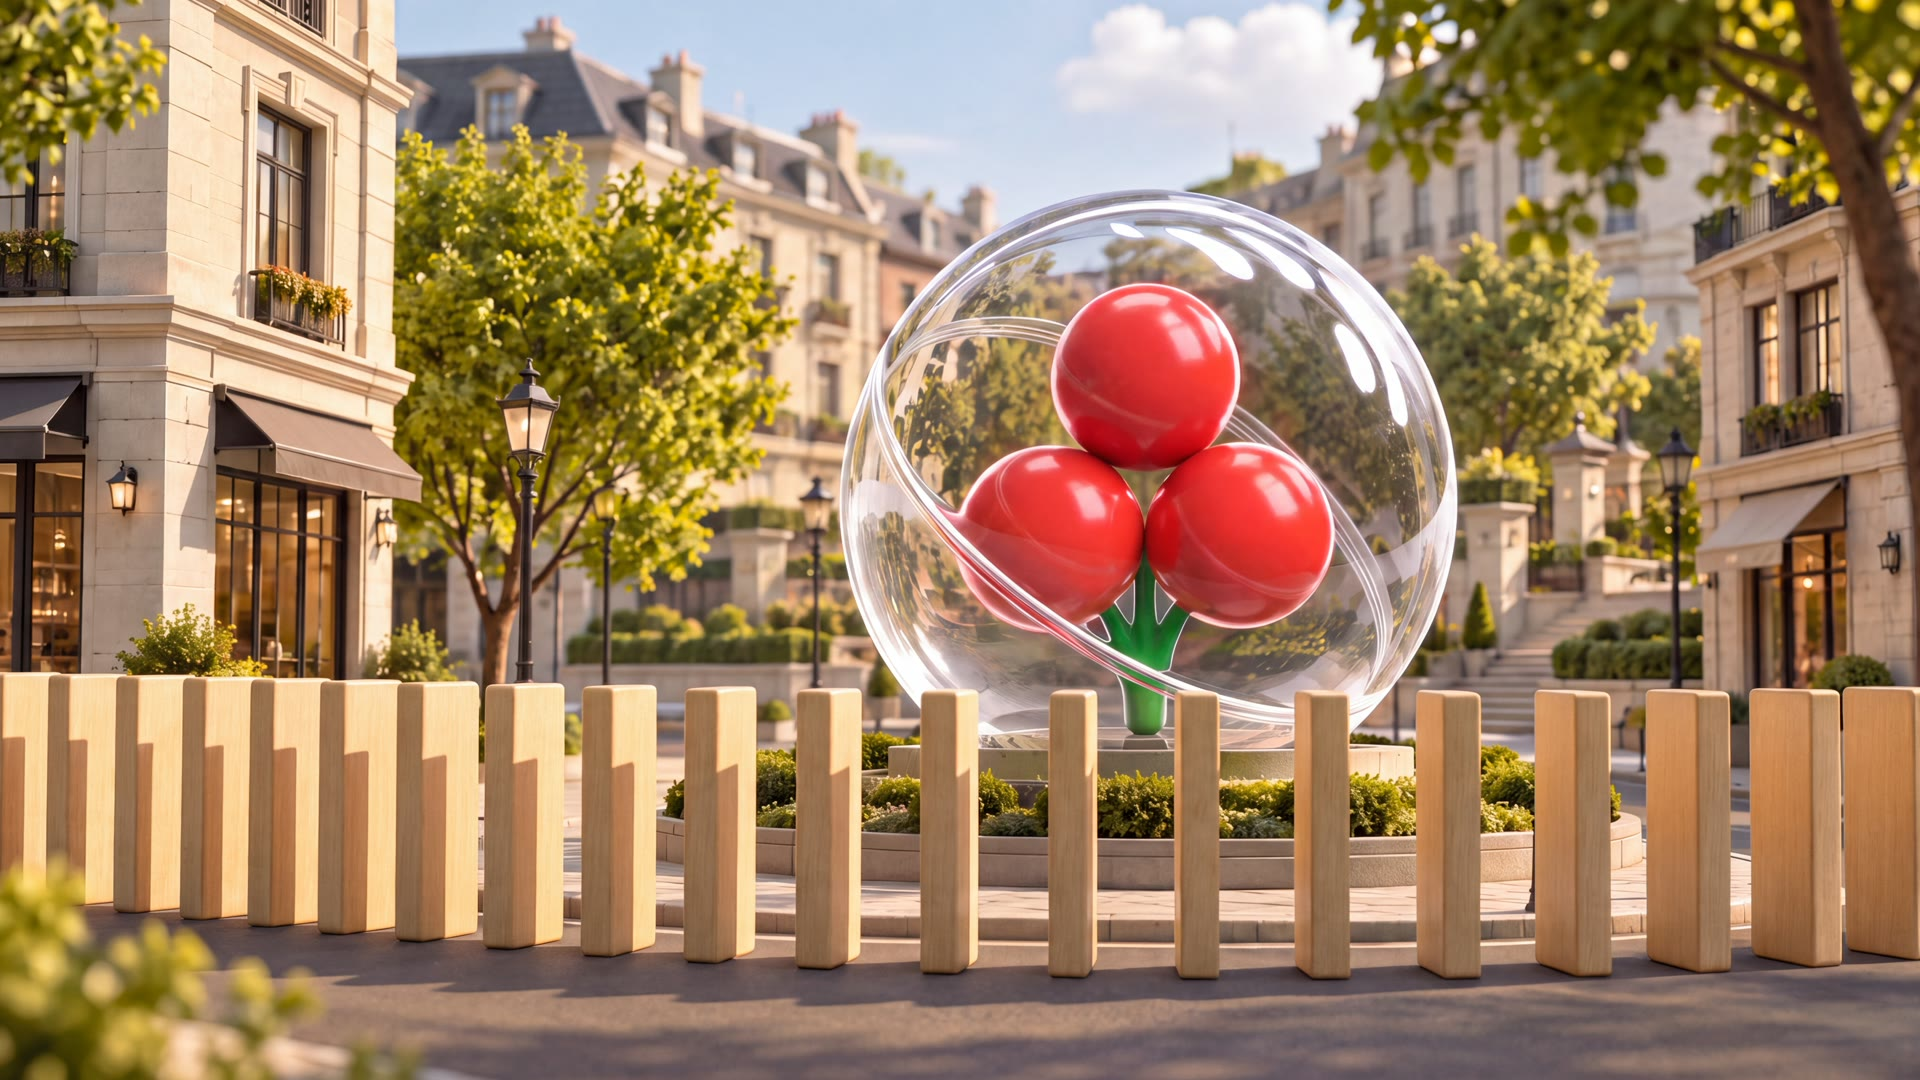
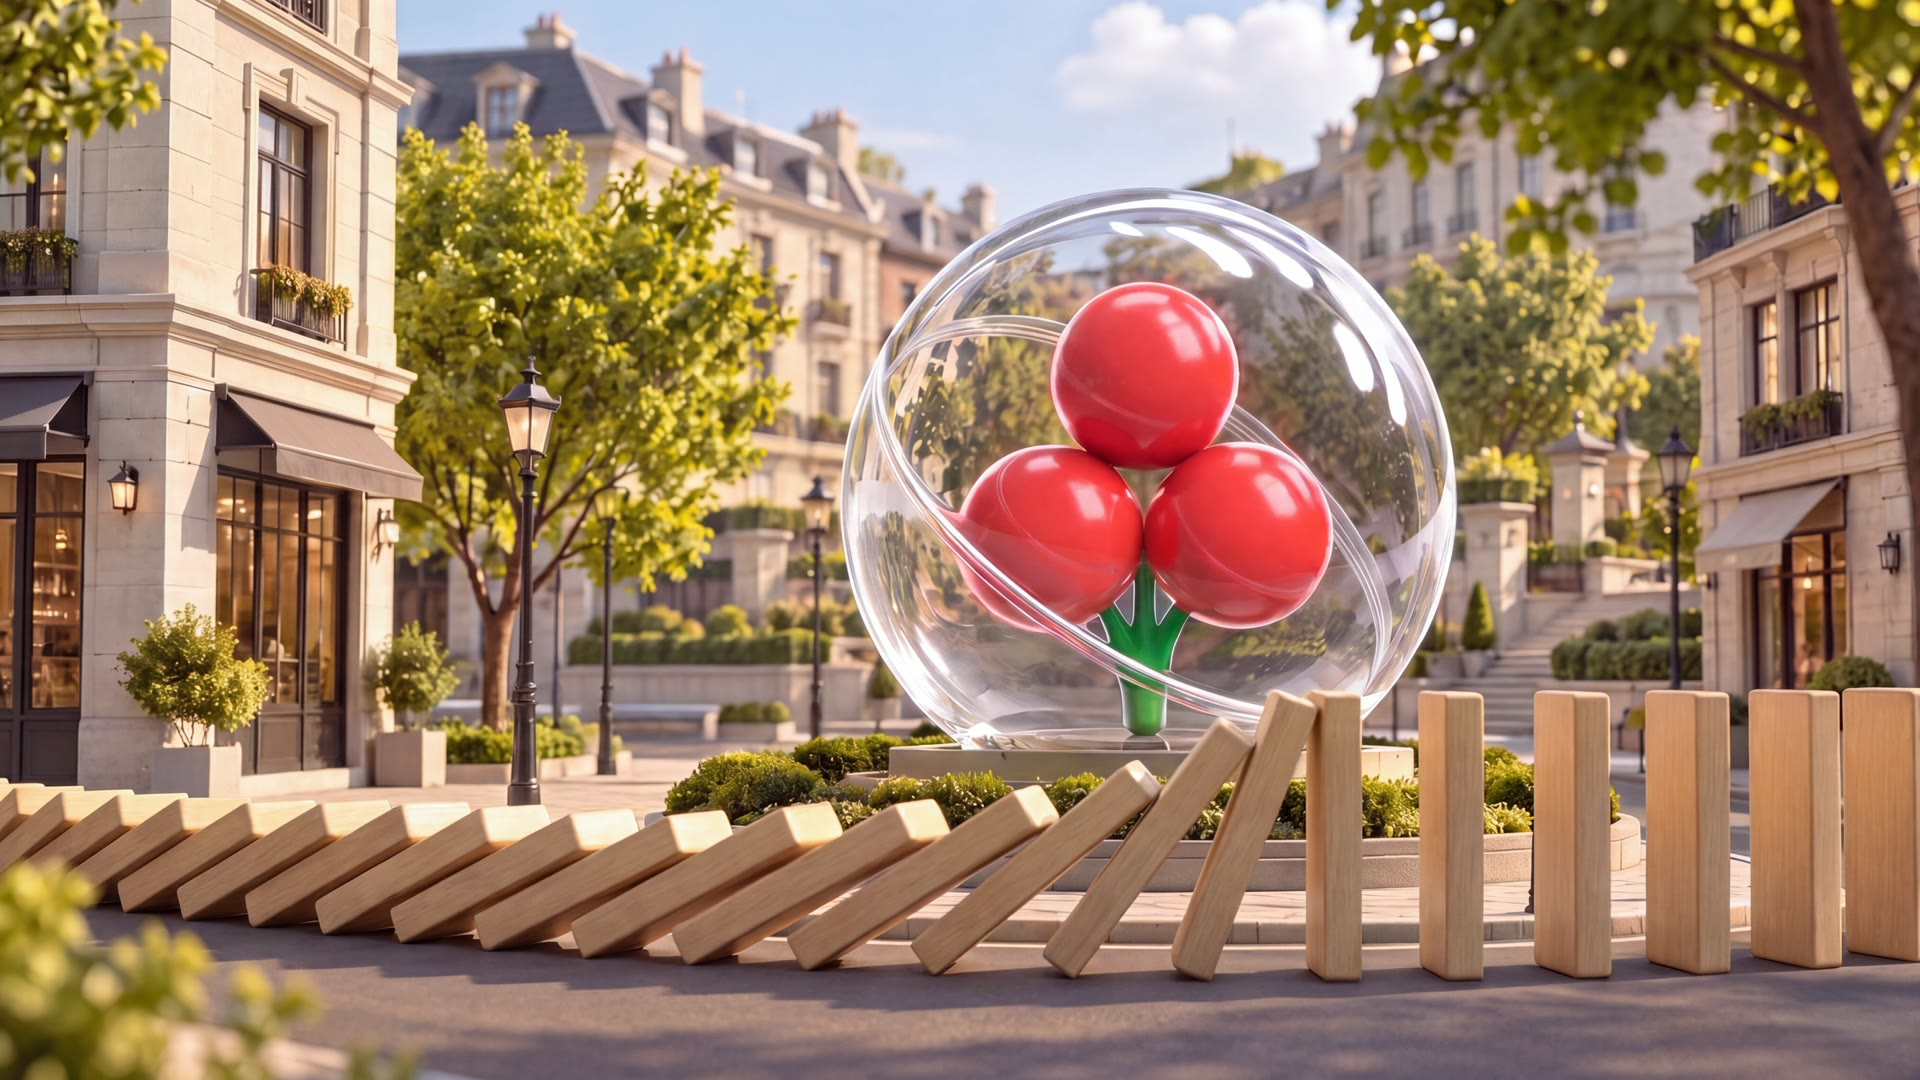
CUT 08 을 iv8_21 로 바꾸고, 로고 등장 시점 설명을 맞춘다
CUT 08 — 랜드마크 구도는 그대로 두되 파면이 조형 바로 앞을 지나는 판으로
바꾼다. 이로써 03~08 이 모두 쓰러지는 중이고, 전부 서 있는 컷이 없어진다.

로고 — 「마지막 한 컷에만」이 「맨 처음과 마지막에만」으로 바뀌었다.
04p 의 등장 시점 카드가 아직 다섯 컷 시절 문구(CUT 01~04 / CUT 05)를
쓰고 있어 01·02~10·11·12 네 칸으로 고쳐 쓴다. CUT 11 자막의
「로고가 나오는 유일한 컷」도 사실이 아니게 되어 바꾼다.

diff --git a/js/storyboard.js b/js/storyboard.js
@@ -86,13 +86,13 @@
     /* 11 — 마지막 프레임. 빛이 도심 곳곳으로 흩어지고 좌 후원사 · 우 사랑의열매
        로고가 뜬다. 성금 전달식 배너를 대신하는 장이라 **가운데를 비워** 그 앞에서
        기념촬영이 되는 구도여야 한다. 로고를 좌우 끝에 두는 이유가 그것이다.
-       자리는 08p 세이프박스와 같은 규격(30% × 26%, 안쪽으로 6%)이고, 기업이
+       자리는 04p 세이프박스와 같은 규격(30% × 26%, 안쪽으로 6%)이고, 기업이
        바뀌면 왼쪽 파일만 갈아 끼운다. 배경 그림은 아직 없다. */
     { no: 'CUT 11', ph: '나눔',
       logos: true,
       say: '○○기업의 나눔이 이렇게 곳곳으로 퍼져 나갑니다.',
       snd: '여운 — 넓게 퍼지는 음',
-      l1: '빛이 도시로 퍼지고 로고가 뜬다', l2: '연출 중 로고가 나오는 유일한 컷' },
+      l1: '빛이 도시로 퍼지고 로고가 뜬다', l2: '처음 화면에 떴던 로고가 여기서 다시 뜬다' },
 
     /* 12 — 같은 마지막 화면을 현장 목업 안에 되돌려 놓은 컷이다.
        앞의 아홉 컷은 화면만 꽉 채워 보여 줬는데, 그러면 「예쁜 그림」으로만 남고
@@ -184,7 +184,7 @@
   function floorHtml(c) { return (c.floor || []).map(guideHtml).join(''); }
 
   /* ---- 사람 픽토그램 ----
-     07p 센서 도식과 같은 도형을 이 장 모든 컷에도 세운다. 화면 앞에 사람이 서 있다는 게
+     06p 센서 도식과 같은 도형을 이 장 모든 컷에도 세운다. 화면 앞에 사람이 서 있다는 게
      컷마다 보여야 클라이언트가 동선을 읽을 수 있다.
      상반신이 LED를 가리는 자리라 화면 위에서는 어둡게 빠지고 테두리만 밝게 남긴다.
      가로 0.5 · 세로 1.02 를 기준으로, 몸통에만 가로 1.21 을 더 준다.
@@ -192,7 +192,7 @@
      그대로 먹이면 머리가 찌그러지고 몸통 라운드도 타원이 되어 뭉개진다. 그래서
        머리 — 가로 스케일에 맞춘 지름의 '정원'
        몸통 — 가로만 1.1배 더 준 뒤, 좌우 라운드는 rx=ry 인 정상 원호
-     로 따로 잡는다. 좌표는 목업 16:9(1920×1080) 기준이라 07p 와 그대로 공유한다.
+     로 따로 잡는다. 좌표는 목업 16:9(1920×1080) 기준이라 06p 와 그대로 공유한다.
      wx 를 주면 그 자리로 걸어오는 루프가 붙는다 — cx 는 도착 지점이고 wx 는
      출발 지점까지의 오프셋이다. 방향 표시도 같은 <g> 안에 그려 함께 움직인다. */
   var P = { h: 345, sx: 0.5, sy: 1.02, bx: 1.21 };
@@ -311,7 +311,7 @@
            '</g>';
   }
   /* 06p(tech.js) 가 같은 도미노를 같은 자리에 그린다 — 판정 영역이 무엇을
-     감싸는지 보이려면 05p 와 픽셀 단위로 같은 물건이어야 한다. */
+     감싸는지 보이려면 03p 와 픽셀 단위로 같은 물건이어야 한다. */
   window.SB_DOMINOES = dominoesHtml;
 
   /* 사람은 맨 앞 도미노보다 **앞에** 선다. 나란히 세우면 옆에 서 있는 것이지
@@ -371,7 +371,7 @@
         '</span>';
     /* 로고는 화면 위에 얹히는 별개 레이어다 — 생성물에 굽지 않는다.
        기업마다 종횡비가 달라(KB 국문 lockup 은 가로로 매우 길다) 고정 상자 안에
-       contain 으로 넣는다. 자리 · 크기는 08p 세이프박스와 같은 값이다. */
+       contain 으로 넣는다. 자리 · 크기는 04p 세이프박스와 같은 값이다. */
     if (c.logos) {
       screen += '<img class="sb-logo sb-logo--l" src="assets/logo/kb.webp" alt="후원사 로고" draggable="false" />' +
                 '<img class="sb-logo sb-logo--r" src="assets/logo/sarang.png" alt="사랑의열매" draggable="false" />';
@@ -445,7 +445,7 @@
   }
 
   /* 라이트박스는 걸지 않는다 — 발표 중 목업을 잘못 눌러 확대가 열리면 흐름이 끊긴다.
-     같은 화면들은 08p CMS 목업의 미리보기에서 크게 볼 수 있으므로 잃는 것이 없다. */
+     같은 화면들은 04p CMS 목업의 미리보기에서 크게 볼 수 있으므로 잃는 것이 없다. */
 
   var cards = Array.prototype.slice.call(strip.querySelectorAll('.sb-card'));
   var dots = Array.prototype.slice.call(dotsWrap.querySelectorAll('.sb-dot'));

diff --git a/index.html b/index.html
@@ -182,16 +182,17 @@
             <span class="secnum">로고 · 재사용</span>
             <span class="tier tier--base">기업이 바뀌어도 그대로</span>
           </div>
-          <h2 class="headline--h2">로고는 <span class="accent">마지막 한 컷에만</span> 나옵니다</h2>
-          <p class="subcopy" data-rise="2">연출이 도는 동안에는 로고가 한 번도 나오지 않습니다. 마을이 밝아진 뒤에야 좌 · 우로 떠오르기 때문에, <strong>기업이 바뀌어도 영상을 새로 뽑지 않습니다.</strong></p>
+          <h2 class="headline--h2">로고는 <span class="accent">맨 처음과 마지막에만</span> 나옵니다</h2>
+          <p class="subcopy" data-rise="2">연출이 도는 동안에는 로고가 한 번도 나오지 않습니다. 시작 화면과 마지막 화면에만 좌 · 우로 떠오르기 때문에, <strong>기업이 바뀌어도 영상을 새로 뽑지 않습니다.</strong></p>
         </header>
         <div class="doc-body">
           <div class="lg-lay" data-rise="3">
 
             <div class="lg-when">
-              <div class="lg-w lg-w--off"><span class="lg-w__k">CUT 01 ~ 04</span><b>로고 없음</b><em>도미노 · 마을 · 오브제만. 한 번도 나오지 않는다</em></div>
-              <div class="lg-w lg-w--on"><span class="lg-w__k">CUT 05 · 마을이 밝아진 뒤</span><b>좌 후원사 · 우 사랑의열매</b><em>플로팅 디졸브로 떠오른다</em></div>
-              <div class="lg-w lg-w--sum"><span class="lg-w__k">그래서</span><b>다섯 컷 중 한 컷만 바뀐다</b><em>나머지 네 컷은 기업이 바뀌어도 그대로</em></div>
+              <div class="lg-w lg-w--on"><span class="lg-w__k">CUT 01 · 맨 처음</span><b>좌 후원사 · 우 사랑의열매</b><em>두 분이 밀기 전, 대기 화면에 떠 있다</em></div>
+              <div class="lg-w lg-w--off"><span class="lg-w__k">CUT 02 ~ 10</span><b>로고 없음</b><em>도미노가 도시를 도는 동안에는 한 번도 나오지 않는다</em></div>
+              <div class="lg-w lg-w--on"><span class="lg-w__k">CUT 11 · 12 · 마지막</span><b>좌 후원사 · 우 사랑의열매</b><em>빛이 퍼진 뒤 다시 떠올라 촬영 배경이 된다</em></div>
+              <div class="lg-w lg-w--sum"><span class="lg-w__k">그래서</span><b>열두 컷 중 바뀌는 건 처음과 끝뿐</b><em>가운데 아홉 컷은 기업이 바뀌어도 그대로 쓴다</em></div>
             </div>
 
             <div class="lg-demo">
